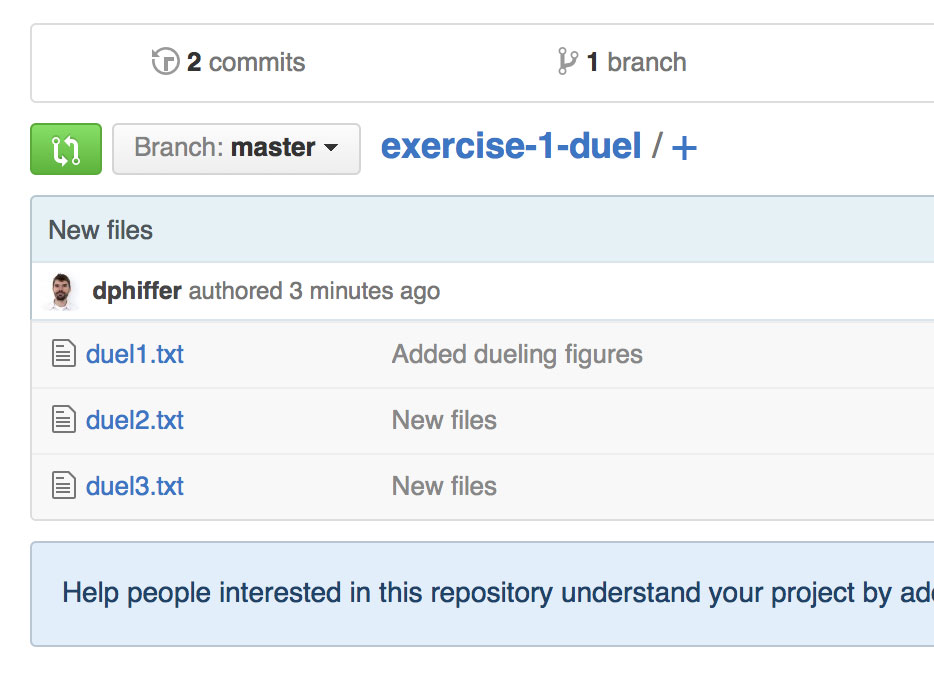
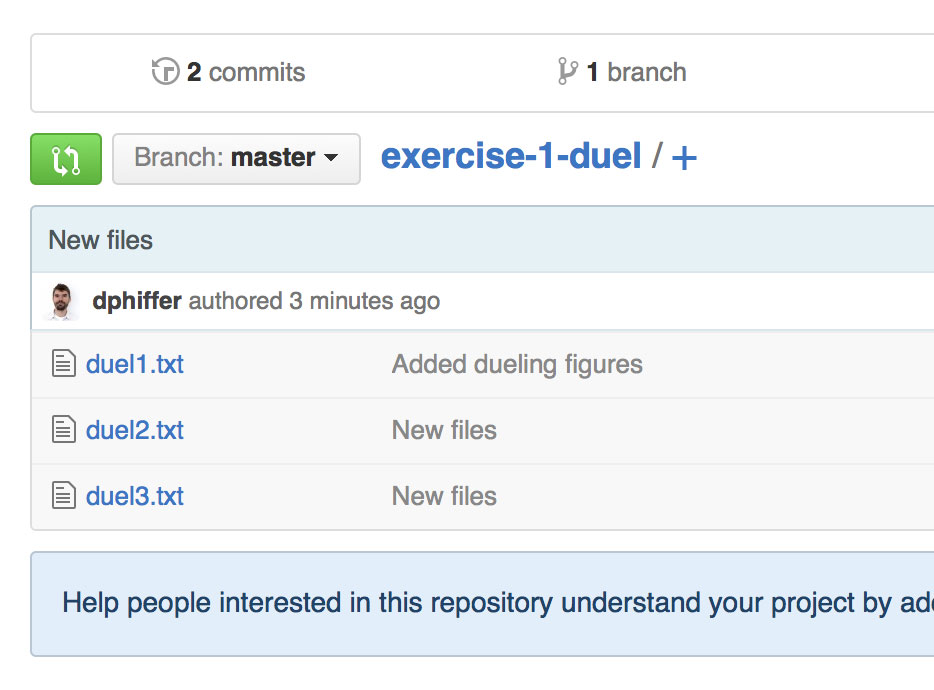
Recentered image

diff --git a/week2/duel.md b/week2/duel.md
@@ -143,4 +143,4 @@ Go back to the GitHub Desktop app.
 
 If you check your repository on GitHub, you should now see all 3 files.
 
-![Three files](http://phiffer.org/scripting/week2/images/three-files.jpg)
+![Three files](http://phiffer.org/scripting/week2/images/three-files.jpg){.border}
